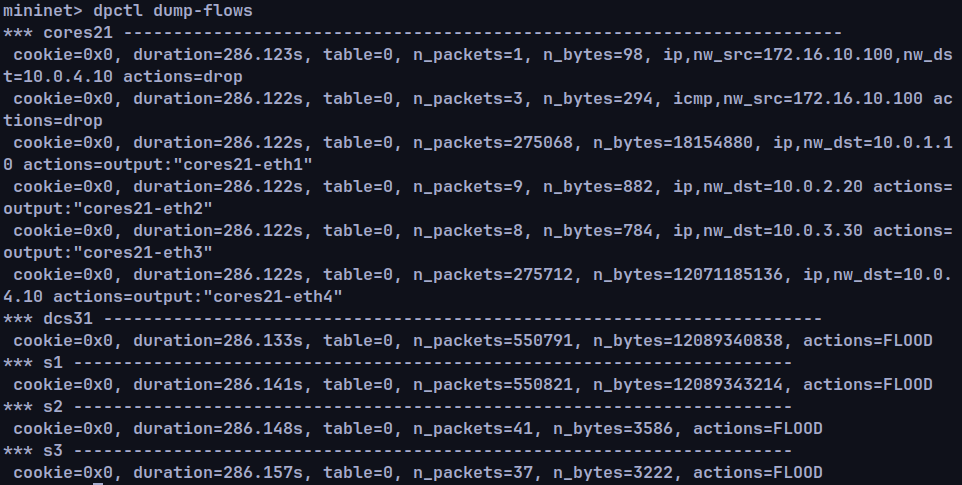
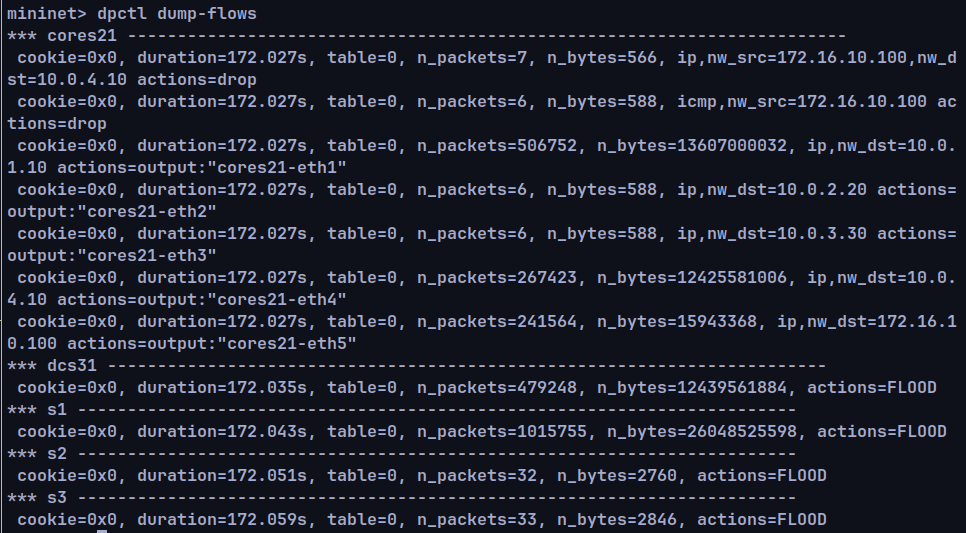
Update screenshots for part3

Changed region(s): [[0.0, 0.0, 0.9979, 1.0]]

diff --git a/project2/part3/part3controller.py b/project2/part3/part3controller.py
@@ -88,7 +88,7 @@ class Part3Controller(object):
 
         # Block any ICMP traffic from the untrusted host.
         match = of.ofp_match()
-        match.dl_type = 0x0800  # IP type
+        match.dl_type = 0x800  # IP type
         match.nw_src = IPAddr(IPS["hnotrust"])
         match.nw_proto = 1  # ICMP protocol
         self.connection.send(of.ofp_flow_mod(match=match, command=of.OFPFC_ADD))
@@ -100,10 +100,11 @@ class Part3Controller(object):
             (IPS["h20"], 2),
             (IPS["h30"], 3),
             (IPS["serv1"], 4),
+            (IPS["hnotrust"], 5),
         ]
         for host_ip, output_port in hosts_switches:
             match = of.ofp_match()
-            match.dl_type = 0x0800  # IP type
+            match.dl_type = 0x800  # IP type
             match.nw_dst = IPAddr(host_ip)
             action = of.ofp_action_output(port=output_port)
             self.connection.send(of.ofp_flow_mod(match=match, actions=[action]))
